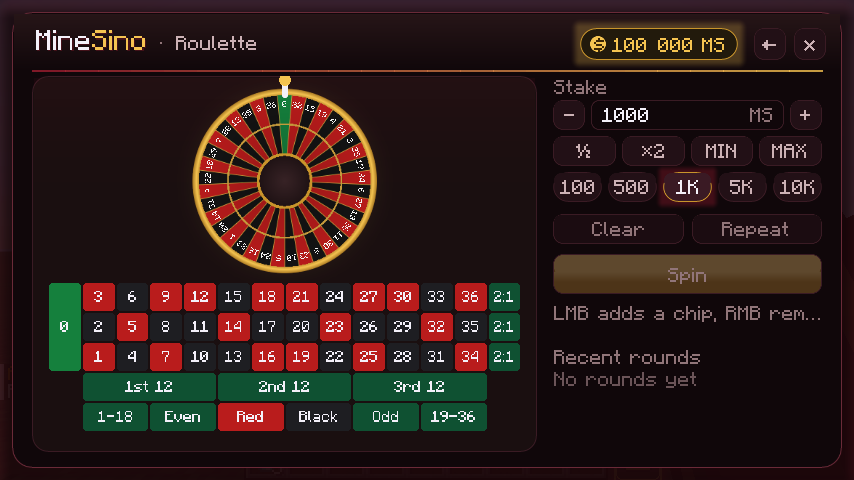
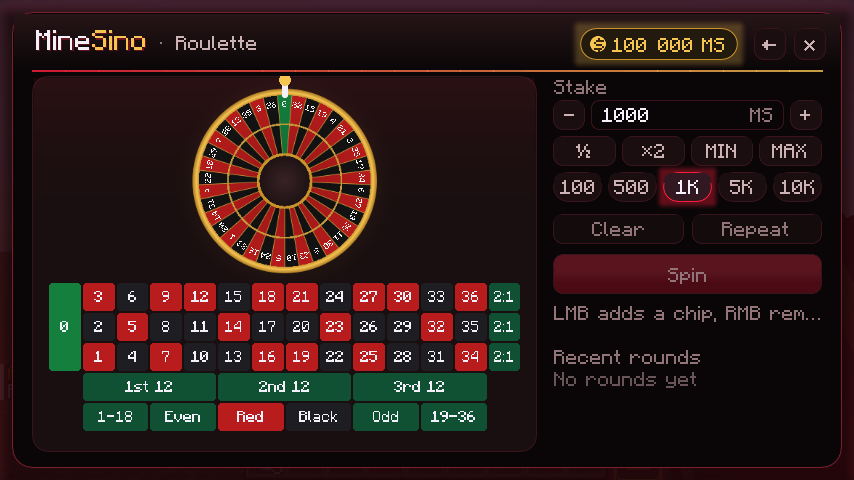
Neon red theme, logical mob prices, v0.1.2
- Switch palette, logo and tablet to neon red; glowing call-to-action buttons
- Golems not built by a player now sell at their recipe price by default
- Raise evoker, shulker, vindicator, pillager and breeze above their drop value

diff --git a/src/client/java/dev/minesino/client/gui/widget/Button.java b/src/client/java/dev/minesino/client/gui/widget/Button.java
@@ -63,19 +63,19 @@ public class Button extends Widget {
 		int top, bottom, border, text;
 		switch (style) {
 			case PRIMARY -> {
-				top = Theme.lerp(0xFFA5203A, 0xFFB82A45, hover);
-				bottom = Theme.lerp(Theme.ACCENT_DARK, 0xFF7A1026, hover);
-				border = 0xFFC9952B;
+				top = Theme.lerp(0xFFFF2D4A, 0xFFFF4D66, hover);
+				bottom = Theme.lerp(Theme.ACCENT_DARK, 0xFFE0102E, hover);
+				border = 0xFFFF7A8C;
 				text = Theme.TEXT;
 			}
-			case GOLD -> {
-				top = Theme.lerp(0xFFFFD873, 0xFFFFE49A, hover);
-				bottom = Theme.lerp(Theme.GOLD_DARK, 0xFFD9A53A, hover);
-				border = 0xFFFFE7A3;
-				text = 0xFF2A1B05;
+			case GOLD -> { // main call to action: neon red
+				top = Theme.lerp(0xFFFF2D4A, 0xFFFF5A70, hover);
+				bottom = Theme.lerp(0xFFD0102C, 0xFFFF1F3D, hover);
+				border = 0xFFFF8FA0;
+				text = 0xFFFFFFFF;
 			}
 			case DANGER -> {
-				top = Theme.lerp(0xFFB82A45, 0xFFFF8585, hover);
+				top = Theme.lerp(0xFFFF4D66, 0xFFFF8585, hover);
 				bottom = Theme.RED_DARK;
 				border = 0xFFFCA5A5;
 				text = Theme.TEXT;
@@ -90,7 +90,7 @@ public class Button extends Widget {
 				int base = sel ? Theme.CARD_PRESS : Theme.CARD;
 				top = Theme.lerp(base, Theme.CARD_HI, hover);
 				bottom = Theme.lerp(base, Theme.CARD_HI, hover * 0.7f);
-				border = sel ? Theme.GOLD_DARK : Theme.lerp(Theme.BORDER, Theme.BORDER_HI, hover);
+				border = sel ? Theme.ACCENT : Theme.lerp(Theme.BORDER, Theme.BORDER_HI, hover);
 				text = sel ? Theme.TEXT : Theme.lerp(Theme.TEXT_DIM, Theme.TEXT, hover);
 			}
 		}
@@ -100,9 +100,10 @@ public class Button extends Widget {
 			border = Theme.BORDER;
 			text = Theme.MUTED;
 		}
-		if (enabled && (hover > 0.01f || sel) && style != Style.GHOST && style != Style.CHIP && style != Style.ICON) {
-			Ui.glow(g, bx, by, bw, bh, 5 + 3 * hover, Theme.alpha(style == Style.GOLD ? Theme.GOLD : style == Style.DANGER ? Theme.RED
-				: style == Style.SUCCESS ? Theme.GREEN : Theme.ACCENT, 0.25f + 0.3f * hover));
+		boolean neon = style == Style.GOLD || style == Style.PRIMARY;
+		if (enabled && (hover > 0.01f || sel || neon) && style != Style.GHOST && style != Style.CHIP && style != Style.ICON) {
+			Ui.glow(g, bx, by, bw, bh, 5 + 3 * hover, Theme.alpha(neon ? Theme.ACCENT : style == Style.DANGER ? Theme.RED
+				: style == Style.SUCCESS ? Theme.GREEN : Theme.ACCENT, (neon ? 0.45f : 0.25f) + 0.3f * hover));
 		}
 		if (sel && (style == Style.GHOST || style == Style.CHIP)) Ui.glow(g, bx, by, bw, bh, 4, Theme.alpha(Theme.ACCENT, 0.35f));
 		Ui.round(g, bx, by, bw, bh, r, border);

diff --git a/src/client/java/dev/minesino/client/gui/Theme.java b/src/client/java/dev/minesino/client/gui/Theme.java
@@ -1,24 +1,24 @@
 package dev.minesino.client.gui;
 
-/** MineSino palette: wine-black surfaces with claret (burgundy) and gold accents. */
+/** MineSino palette: near-black surfaces with neon red and gold accents. */
 public final class Theme {
 	private Theme() {}
 
 	public static final int BACKDROP = 0xC0090405;
-	public static final int BG = 0xFF10070A;
-	public static final int SURFACE = 0xFF190B10;
-	public static final int CARD = 0xFF221016;
-	public static final int CARD_HI = 0xFF2E151D;
-	public static final int CARD_PRESS = 0xFF3A1A24;
-	public static final int BORDER = 0xFF3A1B24;
-	public static final int BORDER_HI = 0xFF6A2A38;
-	public static final int ACCENT = 0xFF9B1B30;
-	public static final int ACCENT_DARK = 0xFF5E0B1C;
-	public static final int ACCENT_GLOW = 0x669B1B30;
+	public static final int BG = 0xFF0A0607;
+	public static final int SURFACE = 0xFF120A0C;
+	public static final int CARD = 0xFF1A0E11;
+	public static final int CARD_HI = 0xFF261217;
+	public static final int CARD_PRESS = 0xFF321820;
+	public static final int BORDER = 0xFF3A141C;
+	public static final int BORDER_HI = 0xFF7A1F2E;
+	public static final int ACCENT = 0xFFFF1F3D;
+	public static final int ACCENT_DARK = 0xFFB0001C;
+	public static final int ACCENT_GLOW = 0x99FF1F3D;
 	public static final int GOLD = 0xFFF5C451;
 	public static final int GOLD_DARK = 0xFFC9952B;
 	public static final int NEON = 0xFF22D3EE;
-	public static final int PINK = 0xFFC23A52;
+	public static final int PINK = 0xFFFF2D55;
 	public static final int GREEN = 0xFF22C55E;
 	public static final int GREEN_DARK = 0xFF15803D;
 	public static final int RED = 0xFFEF4444;

diff --git a/src/main/java/dev/minesino/config/ConfigIO.java b/src/main/java/dev/minesino/config/ConfigIO.java
@@ -116,7 +116,7 @@ public final class ConfigIO {
 		c.put("mobs", "Selling mobs with Shift + right click.");
 		c.put("mobs.requireTablet", "Require the tablet slot to be selected when selling mobs.");
 		c.put("mobs.bredMultiplier", "Price factor for bred animals; keeps breeding farms from printing money.");
-		c.put("mobs.naturalGolemMultiplier", "Price factor for iron golems not built by a player.");
+		c.put("mobs.naturalGolemMultiplier", "Price factor for iron golems not built by a player (villages, eggs, iron farms). 1.0 = full recipe price; e.g. 0.1 taxes iron farms.");
 		c.put("spawnEggs", "Spawn eggs available in the shop. Entities not listed in 'allowed' are never sold.");
 		c.put("permissions.adminLevel", "Operator permission level needed for /balance set|add|remove and /minesino reload.");
 		c.put("permissions.adminPlayers", "UUIDs of extra players allowed to use admin commands.");

diff --git a/src/test/java/dev/minesino/PricingTest.java b/src/test/java/dev/minesino/PricingTest.java
@@ -133,7 +133,9 @@ class PricingTest {
 		MobFacts built = new MobFacts("minecraft:iron_golem", false, true, true, false, false, false, false, false, false, false, false, false, true, false);
 		assertEquals(36_100, MobSaleRules.evaluate(built, mobs(), cfg.mobs).price());
 		MobFacts farmed = new MobFacts("minecraft:iron_golem", false, true, true, false, false, false, false, false, false, false, false, false, false, false);
-		assertEquals(3_610, MobSaleRules.evaluate(farmed, mobs(), cfg.mobs).price(), "iron-farm golems are worth less");
+		assertEquals(36_100, MobSaleRules.evaluate(farmed, mobs(), cfg.mobs).price(), "any golem is worth its recipe by default");
+		cfg.mobs.naturalGolemMultiplier = new java.math.BigDecimal("0.1");
+		assertEquals(3_610, MobSaleRules.evaluate(farmed, mobs(), cfg.mobs).price(), "servers can still tax iron-farm golems");
 	}
 
 	@Test

diff --git a/src/main/java/dev/minesino/config/MineSinoConfig.java b/src/main/java/dev/minesino/config/MineSinoConfig.java
@@ -159,8 +159,11 @@ public final class MineSinoConfig {
 		public boolean allowBabies = false;
 		/** Price factor for animals born from breeding (anti breeding-farm abuse). */
 		public BigDecimal bredMultiplier = new BigDecimal("0.25");
-		/** Price factor for iron golems that were not built by a player (iron farms). */
-		public BigDecimal naturalGolemMultiplier = new BigDecimal("0.1");
+		/**
+		 * Price factor for iron golems that were not built by a player (villages, spawn eggs, iron farms).
+		 * 1.0 = every golem is worth its recipe (4 iron blocks + carved pumpkin); lower it to tax iron farms.
+		 */
+		public BigDecimal naturalGolemMultiplier = new BigDecimal("1.0");
 		public double maxDistance = 6.0;
 		/** Seconds a confirmation offer stays valid. */
 		public int offerTimeoutSeconds = 20;

diff --git a/src/client/java/dev/minesino/client/gui/games/PlinkoPage.java b/src/client/java/dev/minesino/client/gui/games/PlinkoPage.java
@@ -109,7 +109,7 @@ public class PlinkoPage extends GamePage {
 			float x0 = cx + (k - rows / 2f) * spacing - binW / 2;
 			float edge = Math.abs(k - rows / 2f) / (rows / 2f);
 			int color = Theme.lerp(0xFFF59E0B, 0xFFE11D48, edge);
-			if (k < mults.length && mults[k] < 100) color = Theme.lerp(0xFF8E1A30, 0xFFF59E0B, edge * 1.5f);
+			if (k < mults.length && mults[k] < 100) color = Theme.lerp(0xFFE0102E, 0xFFF59E0B, edge * 1.5f);
 			boolean hit = k == bin && !animating;
 			if (hit) Ui.glow(g, x0, binY, binW, 12, 6, Theme.alpha(color, 0.7f * Anim.pulse(0.8f) + 0.3f));
 			Ui.round(g, x0, binY + (hit ? 2 : 0), binW, 12, 2.5f, color);

diff --git a/src/client/java/dev/minesino/client/gui/page/SellPage.java b/src/client/java/dev/minesino/client/gui/page/SellPage.java
@@ -174,7 +174,7 @@ public class SellPage extends Page {
 			float ry = listY + 2 + i * rowH - scroll.offset;
 			if (ry + rowH < listY || ry > listY + listH) continue;
 			boolean hov = Ui.inside(mx, my, x, ry, w, rowH) && my > listY && my < listY + listH;
-			int bg = r.chosen > 0 ? 0xFF1E2A1F : hov ? Theme.CARD_HI : i % 2 == 0 ? 0xFF190B10 : 0xFF231618;
+			int bg = r.chosen > 0 ? 0xFF1E2A1F : hov ? Theme.CARD_HI : i % 2 == 0 ? 0xFF120A0C : 0xFF231618;
 			Ui.round(g, x + 2, ry, w - 4, rowH - 2, 4, bg);
 			if (r.chosen > 0) Ui.round(g, x + 2, ry + 3, 2, rowH - 8, 1, Theme.GREEN);
 			g.item(r.display, (int) x + 6, (int) ry + 1);

diff --git a/src/client/java/dev/minesino/client/gui/page/SettingsPage.java b/src/client/java/dev/minesino/client/gui/page/SettingsPage.java
@@ -51,7 +51,7 @@ public class SettingsPage extends Page {
 		String[] keys = {"animations", "reduced_effects", "sounds", "hud_balance", "compact_numbers", "toasts", "animation_speed"};
 		for (int i = 0; i < keys.length; i++) {
 			float ry = rowsY + i * 20;
-			Ui.round(g, x, ry - 2, w, 19, 5, i % 2 == 0 ? 0xFF190B10 : 0xFF231618);
+			Ui.round(g, x, ry - 2, w, 19, 5, i % 2 == 0 ? 0xFF120A0C : 0xFF231618);
 			Ui.text(g, Ui.tr("minesino.settings." + keys[i]), x + 8, ry + 2, Theme.TEXT);
 			Ui.text(g, Ui.fit(Ui.tr("minesino.settings." + keys[i] + ".desc"), w - 200), x + 150, ry + 2, Theme.MUTED);
 		}

diff --git a/src/client/java/dev/minesino/client/gui/games/KenoPage.java b/src/client/java/dev/minesino/client/gui/games/KenoPage.java
@@ -124,7 +124,7 @@ public class KenoPage extends GamePage {
 			float x0 = gx + c * cell + 1.5f, y0 = gy + r * cell + 1.5f, s = cell - 3;
 			boolean p = picked[n], d = isDrawn[n];
 			if (p && d) hits++;
-			int fill = p && d ? 0xFF15803D : d ? 0xFF4A0E1A : p ? 0xFF8E1A30 : Theme.CARD;
+			int fill = p && d ? 0xFF15803D : d ? 0xFF5C0A16 : p ? 0xFFE0102E : Theme.CARD;
 			int border = p && d ? Theme.GOLD : p ? Theme.ACCENT : d ? Theme.ACCENT_DARK : Theme.BORDER;
 			boolean hov = !animating && Ui.inside(mx, my, x0, y0, s, s);
 			if (p && d) Ui.glow(g, x0, y0, s, s, 4, Theme.alpha(Theme.GOLD, 0.5f));

diff --git a/src/client/java/dev/minesino/client/gui/games/GamePage.java b/src/client/java/dev/minesino/client/gui/games/GamePage.java
@@ -226,7 +226,7 @@ public abstract class GamePage extends Page {
 			long payout = Json.getLong(o, "payout", 0), stake = Json.getLong(o, "bet", 0);
 			long net = payout - stake;
 			int color = net > 0 ? Theme.GREEN : net == 0 ? Theme.TEXT_DIM : Theme.RED;
-			Ui.round(g, sx, ry, sw, 10, 3, shown % 2 == 0 ? 0xFF190B10 : 0xFF251719);
+			Ui.round(g, sx, ry, sw, 10, 3, shown % 2 == 0 ? 0xFF120A0C : 0xFF251719);
 			Ui.text(g, Ui.fit(recentLabel(o), sw * 0.55f), sx + 4, ry + 1, Theme.TEXT_DIM);
 			Ui.right(g, ClientState.moneySigned(net), sx + sw - 4, ry + 1, color);
 			ry += 11;

diff --git a/src/client/java/dev/minesino/client/gui/widget/TextField.java b/src/client/java/dev/minesino/client/gui/widget/TextField.java
@@ -48,7 +48,7 @@ public class TextField extends Widget {
 	public void render(GuiGraphicsExtractor g, int mx, int my, float dt) {
 		if (!visible) return;
 		updateHover(mx, my, dt);
-		int border = focused ? Theme.GOLD_DARK : Theme.lerp(Theme.BORDER, Theme.BORDER_HI, hover);
+		int border = focused ? Theme.ACCENT : Theme.lerp(Theme.BORDER, Theme.BORDER_HI, hover);
 		if (focused) Ui.glow(g, x, y, w, h, 4, Theme.alpha(Theme.ACCENT, 0.35f));
 		Ui.panel(g, x, y, w, h, 4, Theme.BG, border);
 		float ty = y + (h - 8) / 2f + 0.5f;

diff --git a/src/client/java/dev/minesino/client/gui/games/MinesPage.java b/src/client/java/dev/minesino/client/gui/games/MinesPage.java
@@ -171,7 +171,7 @@ public class MinesPage extends GamePage {
 			} else {
 				int fill = hov ? Theme.CARD_HI : Theme.CARD;
 				if (hov) Ui.glow(g, x0, y0, s, s, 4, Theme.alpha(Theme.ACCENT, 0.4f));
-				Ui.panel(g, x0, y0 - (hov ? 1 : 0), s, s, 4, fill, hov ? Theme.GOLD_DARK : Theme.BORDER);
+				Ui.panel(g, x0, y0 - (hov ? 1 : 0), s, s, 4, fill, hov ? Theme.ACCENT : Theme.BORDER);
 				Ui.gradient(g, x0 + 1, y0 + 1, s - 2, s * 0.4f, 0x18FFFFFF, 0x00000000);
 				if (finished) Ui.rect(g, x0, y0, s, s, 0x55000000);
 			}
